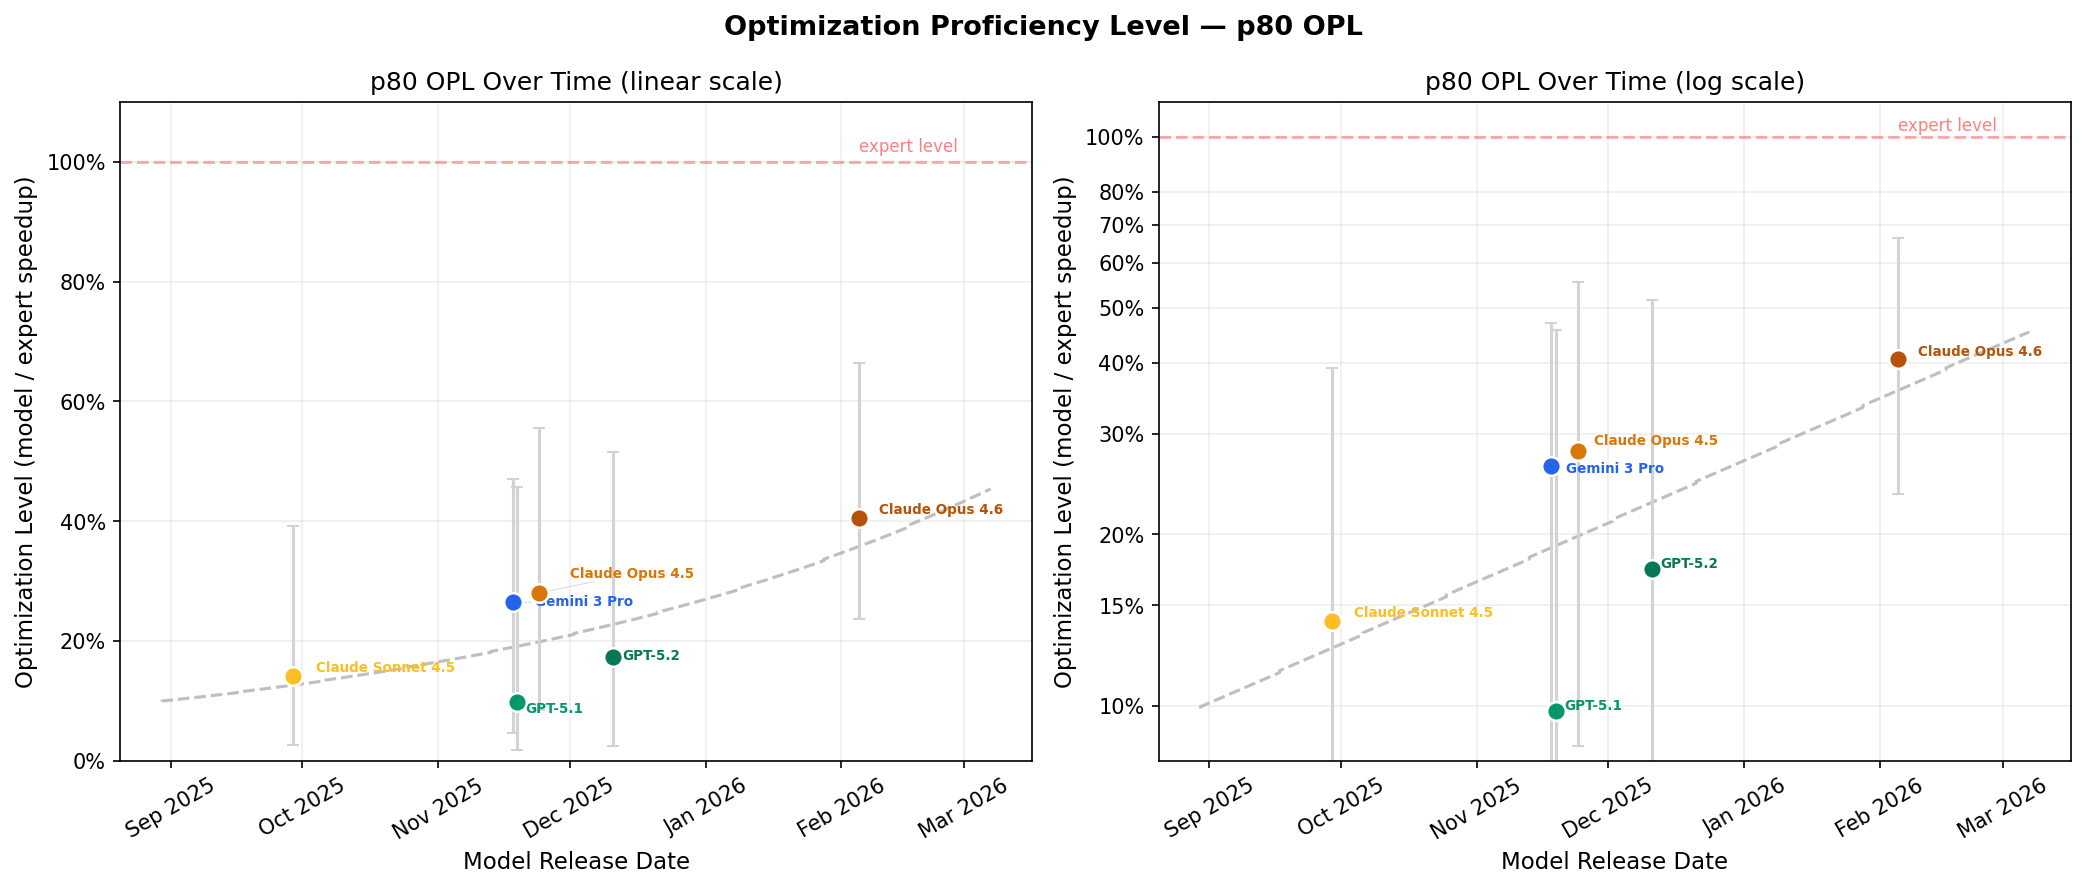
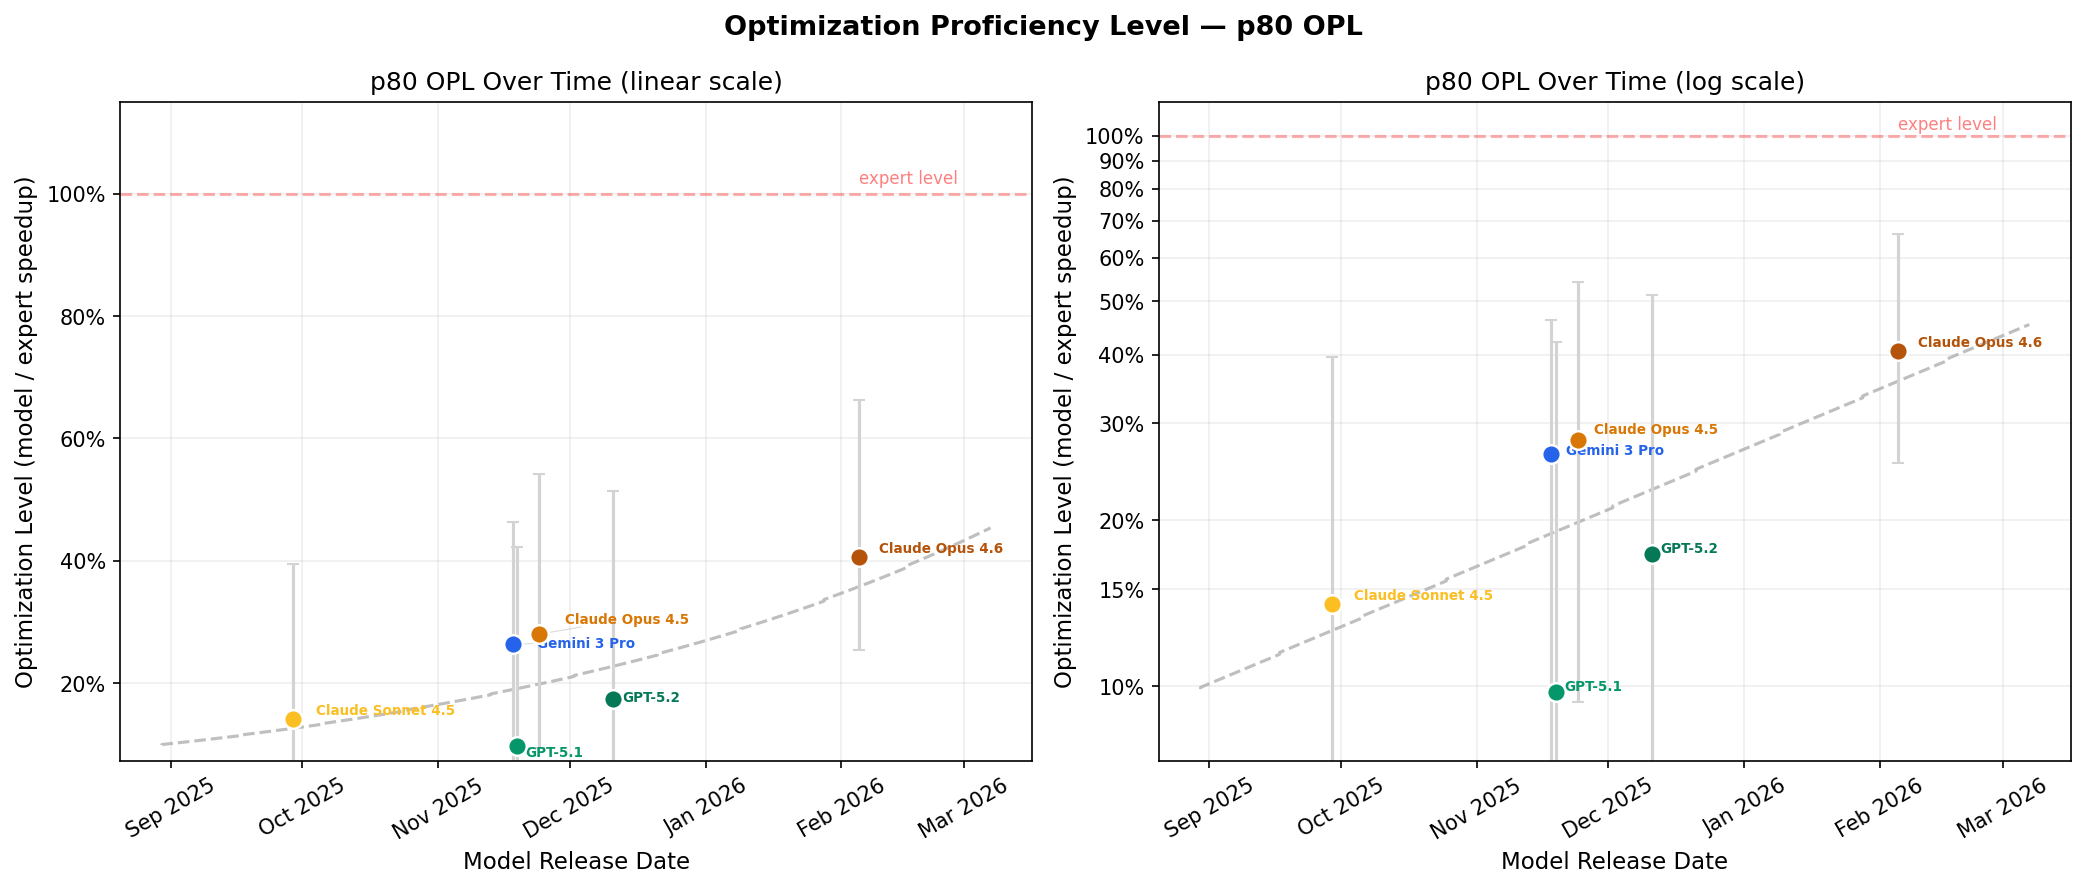
Use data-driven y-axis limits instead of hardcoded values
Derive ylim from the actual data range (75% padding below min,
always show expert level at 100%). Fixes cramped p50 log plot
where o3 at 6% was squeezed against the bottom.

https://claude.ai/code/session_01L5KivAtewHJqMMmsU6mQNJ

diff --git a/analysis/optimization_proficiency.py b/analysis/optimization_proficiency.py
@@ -400,22 +400,23 @@ for metric, metric_label, filename in [
         ax.text(metric_data[0]["date"], 1.01, "expert level",
                 color="red", fontsize=8, alpha=0.5, va="bottom")
 
+        # Derive y-limits from data: pad below the min, always show expert line
+        y_min = min(d[metric] for d in metric_data)
+        y_lo = y_min * 0.75  # 25% padding below lowest point
+        y_hi = 1.15          # always show expert level (1.0) with room for label
+
         if is_log:
             ax.set_yscale("log", base=2)
-            if metric == "p50":
-                yticks = [0.4, 0.5, 0.6, 0.7, 0.8, 0.9, 1.0]
-                ax.set_ylim(0.35, 1.15)
-            else:
-                yticks = [0.1, 0.15, 0.2, 0.3, 0.4, 0.5, 0.6, 0.7, 0.8, 1.0]
-                ax.set_ylim(0.08, 1.15)
+            ax.set_ylim(y_lo, y_hi)
+            # Auto-generate clean tick values spanning the range
+            all_ticks = [0.02, 0.03, 0.05, 0.07, 0.1, 0.15, 0.2, 0.3, 0.4,
+                         0.5, 0.6, 0.7, 0.8, 0.9, 1.0]
+            yticks = [t for t in all_ticks if y_lo <= t <= y_hi]
             ax.set_yticks(yticks)
             ax.set_yticklabels([f"{v:.0%}" for v in yticks])
         else:
             ax.yaxis.set_major_formatter(ticker.PercentFormatter(1.0))
-            if metric == "p50":
-                ax.set_ylim(0.3, 1.1)
-            else:
-                ax.set_ylim(0.0, 1.1)
+            ax.set_ylim(max(0, y_lo), y_hi)
 
         ax.set_xlabel("Model Release Date", fontsize=11)
         ax.set_ylabel("Optimization Level (model / expert speedup)", fontsize=11)
